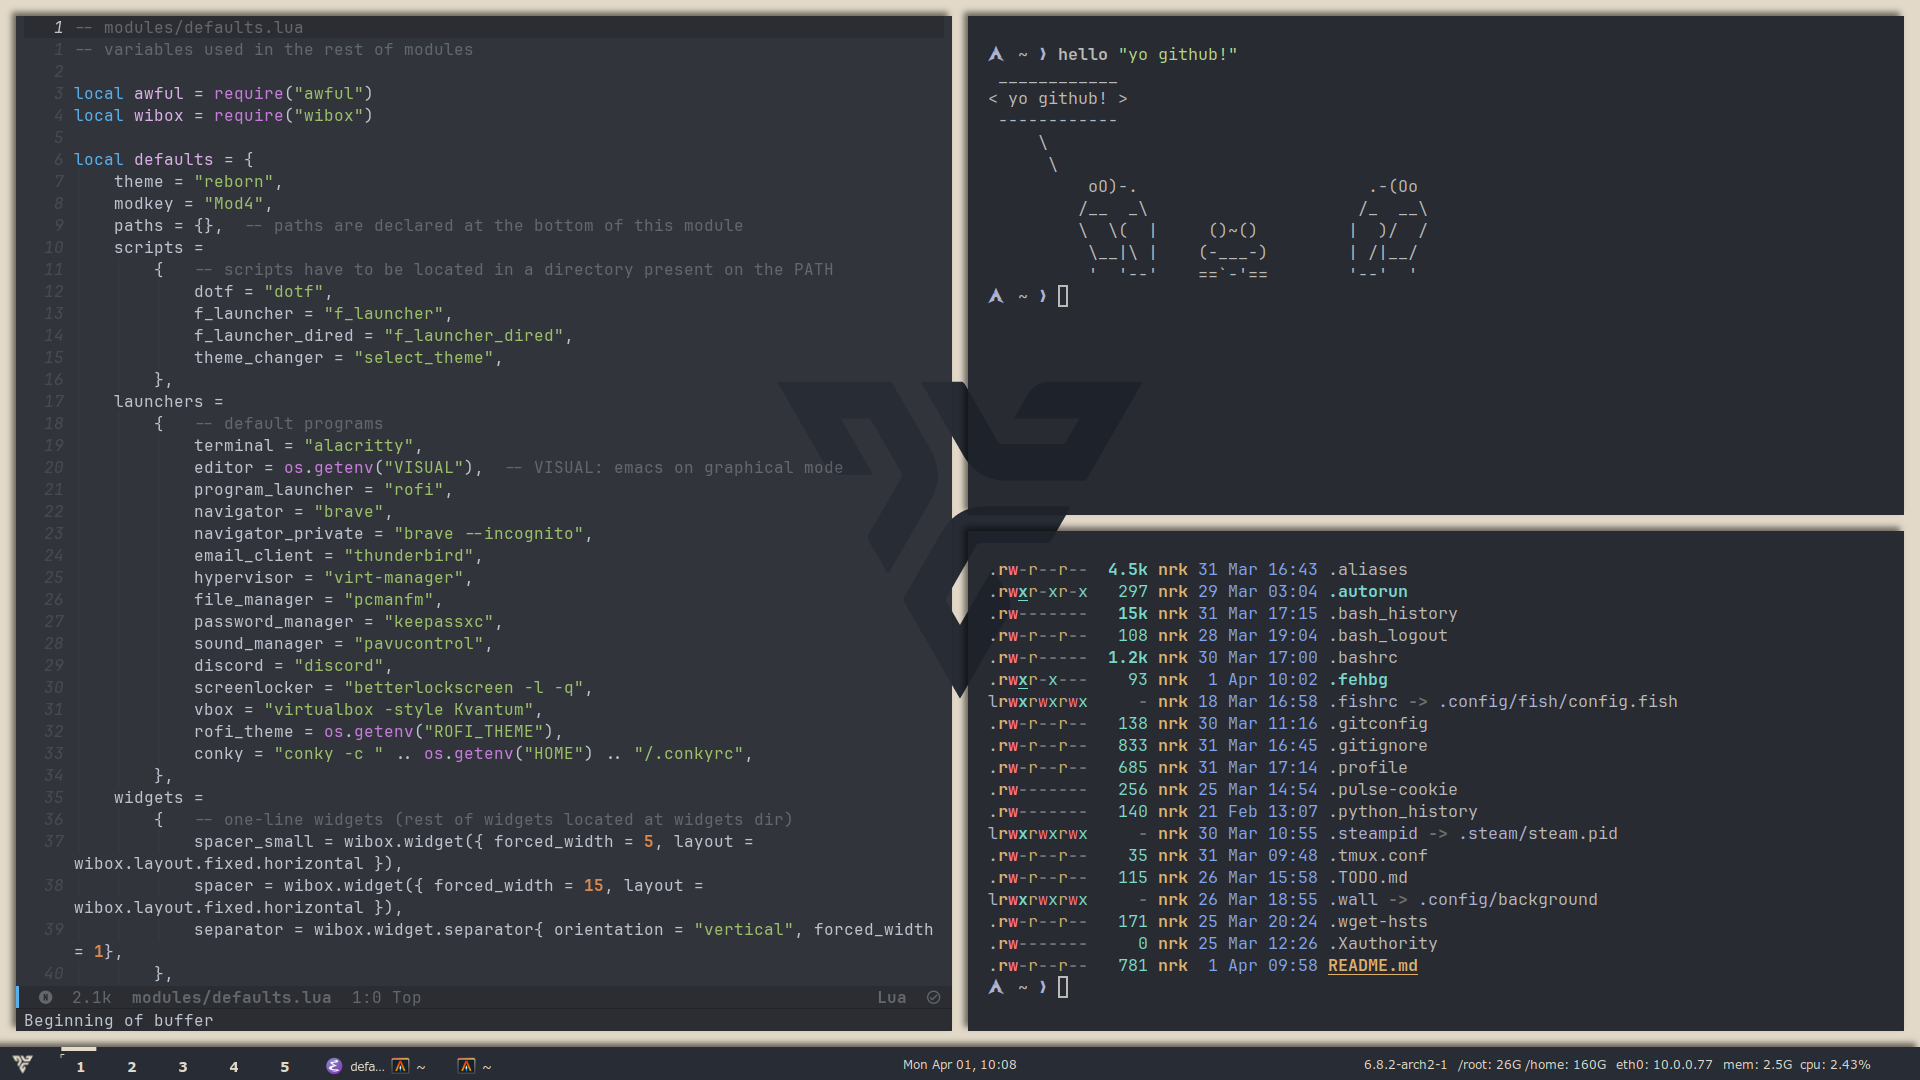
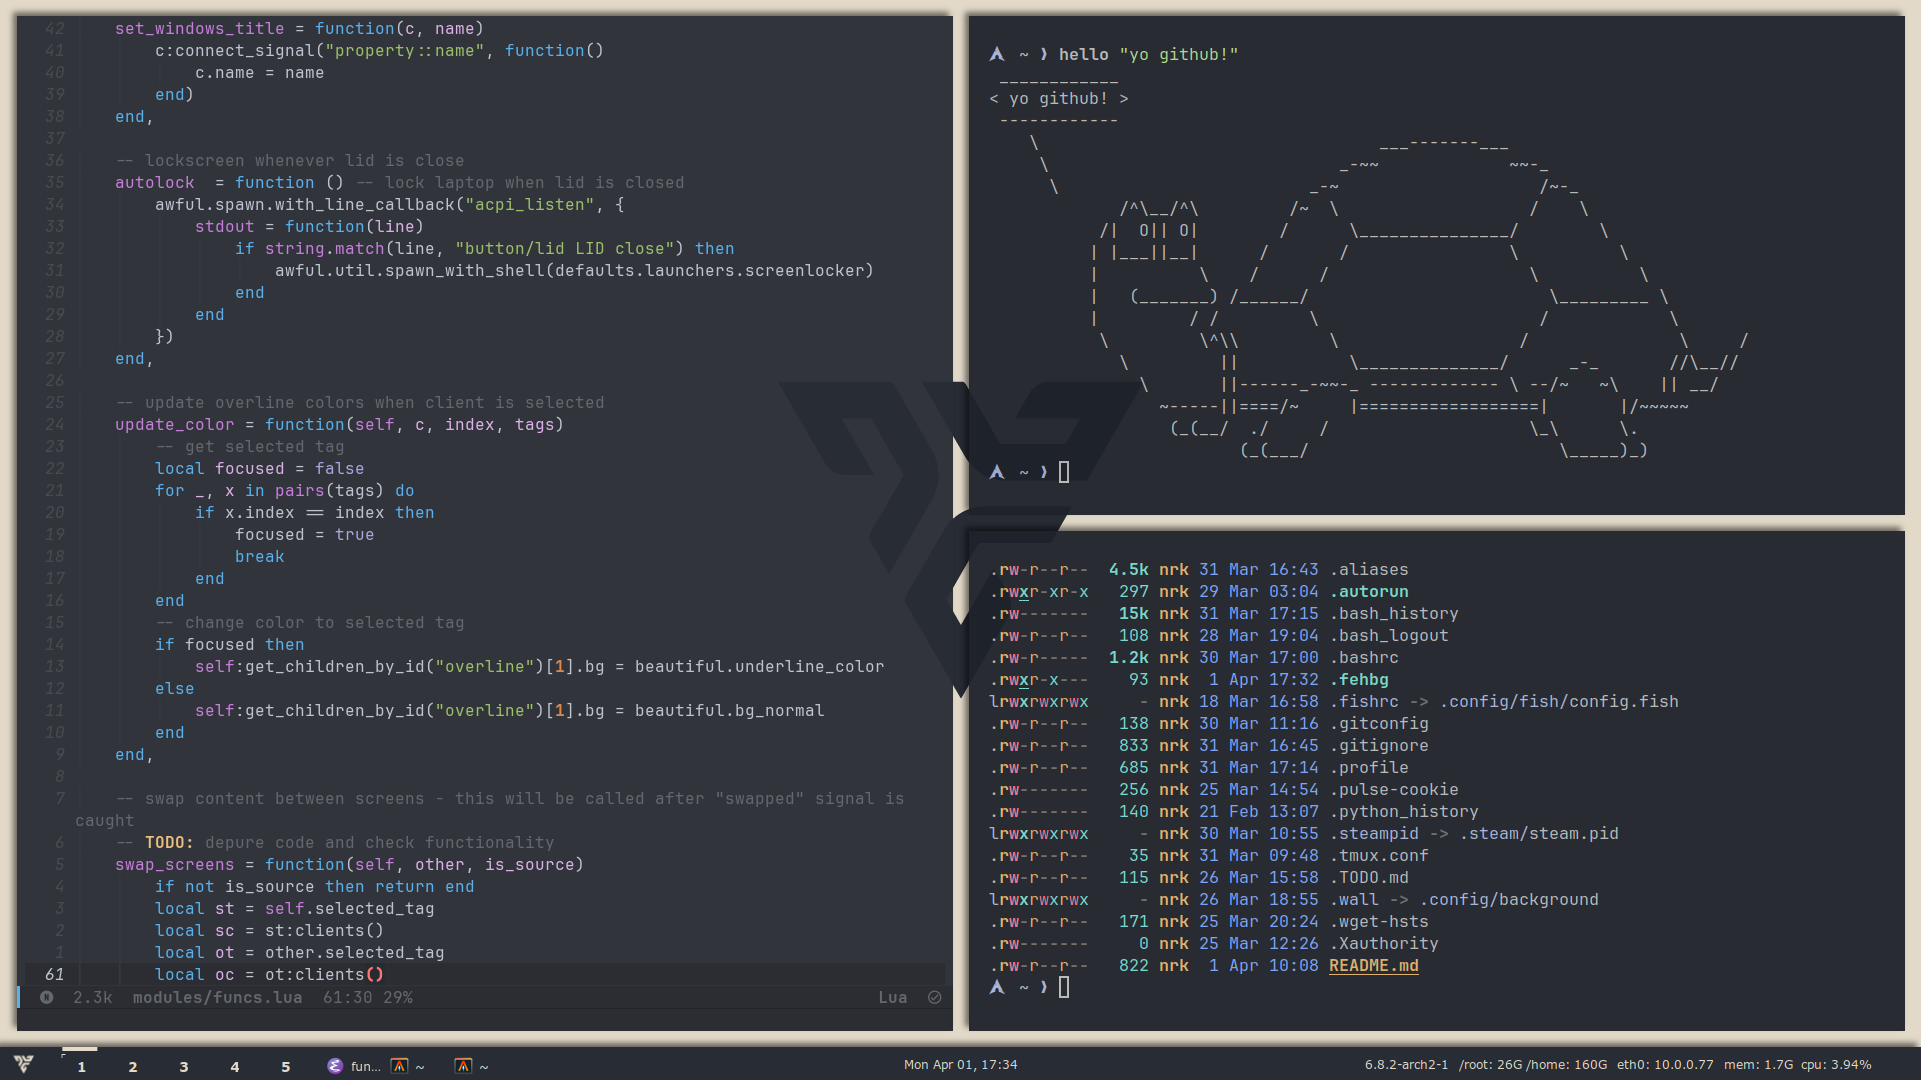
update README.md

diff --git a/README.md b/README.md
@@ -1,15 +1,14 @@
 # dotfiles
 
-The main porpouse of this repo is to use it as a backup to my dotfiles but you can grab anything you need. I am planning to automate the installation and configuration using Ansible,
-so I can easily install my config in any of my workstations. There are several configuration files in the repo, some of them are: 
+The main porpouse of this repo is to use it as a backup to my dotfiles, but I made it public just in case someone gets here and find helpful any of the configuration files. 
+
+## config files
 
 | [awesome](.config/awesome/) | [fish](.config/fish) | [bash](.bashrc) | 
 |-----------------------------|----------------------|-------------------|
 | [gnome](.config/gnome-settings.conf) | [alacritty](.config/alacritty/alacritty.toml) | [picom](.config/picom/picom.conf) |
 
-In my main workstation I use Gnome as DE, but I also use Awesome WM for my laptop and VM's.  
-
-## Preview
+## preview
 
 - Gnome: 
 